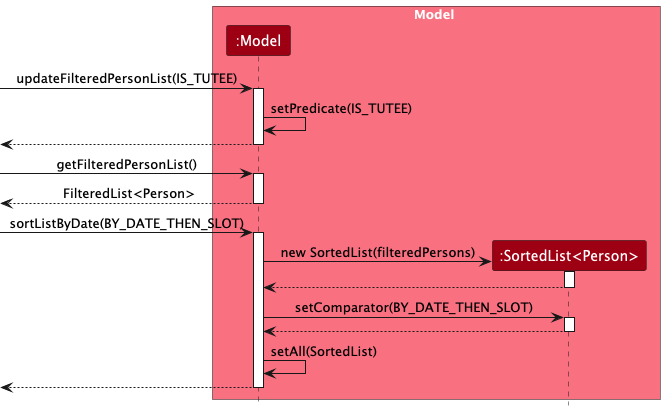
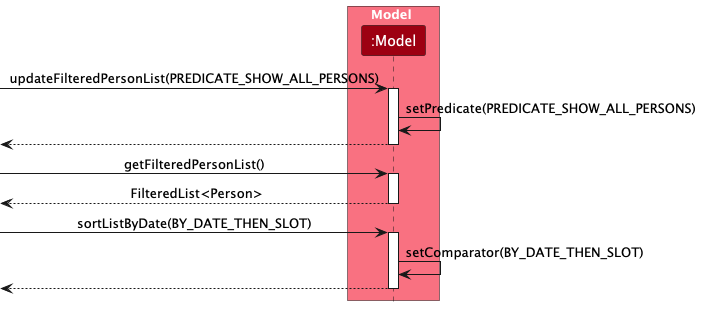
Edit DG

diff --git a/docs/DeveloperGuide.md b/docs/DeveloperGuide.md
@@ -127,11 +127,6 @@ The `Model` component,
 * stores a `UserPref` object that represents the user’s preferences. This is exposed to the outside as a `ReadOnlyUserPref` objects.
 * does not depend on any of the other three components (as the `Model` represents data entities of the domain, they should make sense on their own without depending on other components)
 
-<div markdown="span" class="alert alert-info">:information_source: **Note:** An alternative (arguably, a more OOP) model is given below. It has a `Tag` list in the `AddressBook`, which `Person` references. This allows `AddressBook` to only require one `Tag` object per unique tag, instead of each `Person` needing their own `Tag` objects.<br>
-
-<img src="images/BetterModelClassDiagram.png" width="450" />
-
-</div>
 
 
 ### Storage component
@@ -141,8 +136,8 @@ The `Model` component,
 <img src="images/StorageClassDiagram.png" width="550" />
 
 The `Storage` component,
-* can save both address book data and user preference data in JSON format, and read them back into corresponding objects.
-* inherits from both `AddressBookStorage` and `UserPrefStorage`, which means it can be treated as either one (if only the functionality of only one is needed).
+* can save address book data, schedule data, and user preference data in JSON format, and read them back into corresponding objects.
+* inherits from `AddressBookStorage`, `ScheduleStorage` and `UserPrefStorage`, which means it can be treated as either one (if the functionality of only one is needed).
 * depends on some classes in the `Model` component (because the `Storage` component's job is to save/retrieve objects that belong to the `Model`)
 
 ### Common classes
@@ -166,8 +161,6 @@ Given below shows the sequence diagram of how the sortbydate command goes throug
 The calls to Model class shown above are shown in detail in the sequence diagram below. 
 
 ![SortSequenceDiagram](images/SortByDateSequenceDiagram-Model.png)
-
-### Schedule feature
 
 #### Proposed Implementation
 
@@ -276,32 +269,33 @@ _{more aspects and alternatives to be added}_
 * is reasonably comfortable using CLI apps
 
 **Value proposition**:
-* Managing different clients: Tutee/Tutee’s Parents
+* Managing Tutee contacts
 * Managing timing conflicts: Tuition classes / Study schedule
-* Managing location conflicts
-* Tracking of Tutee’s learning topic status
+  * Note that we do not support activities that span across midnight. 
+* Tracking of billing status 
+* Tracking of Tutee’s learning topic status (via Remarks)
 
 
 ### User stories
 
 Priorities: High (must have) - `* * *`, Medium (nice to have) - `* *`, Low (unlikely to have) - `*`
 
-| Priority | As a …                               | I want to …                                        | So that I can…                                              |
-|-----|---------------------------------------|-----------------------------------------------------|--------------------------------------------------------------|
-| `* * *` | new user                              | see information page                                | refer to instructions when I forget how to use the App       |
-| `* * *` | student                               | add my own schedule                                 | I can account for potential timetable conflicts with my own schedule|
-| `* * *` | student                               | delete my schedule                                  | I can free up the timeslot                           |
-| `* * *` | tuition teacher                       | add a tutee’s data                                  |  |
-| `* * *` | tuition teacher                       | delete a tutee's data                               |             |
-| `* * *` | tuition teacher                       | get the emails of all my current tutees             | I can email them their homework for the week        |
-| `* * *` | tuition teacher                       | get the billing contact of all my current tutees    | I can contact them about payment        |
-| `* * *` | tuition teacher                       | get the address of my tutee                         | I can proceed to the location for the lesson        |
-| `* * *` | tuition teacher                       | sort the list of tutees according to date of lesson | I can see more easily who I am teaching next        |
-| `* *` | tuition teacher                       | get the upcoming topic to be taught for my tutee    | I can prepare the materials necessary for the lesson        |
-| `* *` | tuition teacher                       | leave notes on what my tutee is weak in             | I know how to help them more        |
-| `* *` | tuition teacher and part-time student | have a daily overview of my activities for the day  | I know and can prepare for my day efficiently        |
-| `*` | tuition teacher | I can get suggested time slots for new tutees based on lesson date and duration  | I can slot in new tutees more easily        |
-| `*` | expert user                           | I can create shortcuts for tasks  | I can save time on frequently performed tasks        |
+| Priority | As a …                               | I want to …                                                                    | So that I can…                                             |
+|-----|---------------------------------------|---------------------------------------------------------------------------------|-------------------------------------------------------------|
+| `* * *` | new user                              | see information page                                                            | refer to instructions when I forget how to use the App      |
+| `* * *` | student                               | add my own schedule                                                             | I can account for potential timetable conflicts with my own schedule|
+| `* * *` | student                               | delete my schedule                                                              | I can free up the timeslot                          |
+| `* * *` | tuition teacher                       | add a tutee’s data                                                              |  |
+| `* * *` | tuition teacher                       | delete a tutee's data                                                           |             |
+| `* * *` | tuition teacher                       | get the emails of all my current tutees                                         | I can email them their homework for the week       |
+| `* * *` | tuition teacher                       | get the billing contact of all my current tutees                                | I can contact them about payment       |
+| `* * *` | tuition teacher                       | get the address of my tutee                                                     | I can proceed to the location for the lesson       |
+| `* * *` | tuition teacher                       | sort the list of tutees according to date of lesson                             | I can see more easily who I am teaching next       |
+| `* *` | tuition teacher                       | get the amount each tutee owes                                                  | I know how much I should be getting |
+| `* *` | tuition teacher                       | leave notes on what my tutee is weak in                                         | I know how to help them more        |
+| `* *` | tuition teacher and part-time student | have a daily overview of my activities for the day                              | I know and can prepare for my day efficiently       |
+| `*` | tuition teacher | I can get suggested time slots for new tutees based on lesson date and duration | I can slot in new tutees more easily       |
+| `*` | expert user                           | I can create shortcuts for tasks                                                | I can save time on frequently performed tasks       |
 
 
 ### Use cases
@@ -478,15 +472,51 @@ testers are expected to do more *exploratory* testing.
    1. Test case: `delete 0`<br>
       Expected: No person is deleted. Error details shown in the status message. Status bar remains the same.
 
-   1. Other incorrect delete commands to try: `delete`, `delete x`, `...` (where x is larger than the list size)<br>
+   1. Other incorrect delete commands to try: `delete x`, `...` (where x is larger than the list size)<br>
       Expected: Similar to previous.
 
-1. _{ more test cases … }_
+### Showing current schedule
+1. Showing current schedule
+   1. Test case: `schedule` <br> Expected: Tutee list will be gone and instead a schedule view will be shown. Success message shown on status message.
+   2.    Test case: `schedule hh` <br> Nothing done. Error details shown in the status message.
 
-### Saving data
+### Adding an Activity 
+1. Adds an activity with the parameters of information (about the activity), date, and time.
+   1. Test case: `addactivity i/CCA d/wednesday s/15:00-16:00` <br> Expected: Activity added to the schedule in chronological order. Details of the added activity will be shown in the status message. 
+   2. Test case: `addactivity d/tuesday s/12:00-13:00` <br> Expected: No activity added. Error details shown in the status message.
+   3. Other incorrect test cases: `addactivity i/CCA s/12:00-13:00`, `addactivity i/ Class d/tuesday s/9:00-13:00` <br> Expected: Similar to previous.
 
-1. Dealing with missing/corrupted data files
+### Deleting an Activity 
+1. Deletes an activity specified by the time and time of the activity. 
+   1. Prerequisites: Activity slot needs to be exact and reflect an activity slot in the current schedule.
+   2. Prerequisites: Activity deleted cannot be a tuition slot, that was added via `add command` in address book.
+   2. Test case: `deleteactivity d/thursday s/18:00-20:00` <br> Expected: Deletes an activity. Deleted activity details will be shown on status message.
 
-   1. _{explain how to simulate a missing/corrupted file, and the expected behavior}_
+### Editing unpaid hours 
+1. Editing the unpaid hours of a tutee while all tutees are being shown
+   1. Prerequisites: List all tutees using the `list` command. Multiple tutees in the list.
+   2. Test case: `edithours 1 h/7` <br> Expected: First contact in the list will now have 7 unpaid hours reflected.
+      Details of the edited contact shown in the status message.
+   3. Test case: `edithours 0 h/7` <br> Expected: No hours edited. Error details shown in the status message.
+   4. Test case: `edithours 1 h/-1` <br> Expected: No hours edited. Error details shown in the status message.
 
-1. _{ more test cases … }_
+
+### Indicating that a tutee has paid in full 
+1. Indicating that a tutee has paid his/her amount owed in full. 
+    1. Prerequisites: List all tutees using the `list` command. Multiple tutees in the list. 
+   2. Test case: `paidfull 3` <br> Expected: First contact in the list will now have 0 unpaid hours and $0.00 amount owed.
+      Details of the edited contact shown in the status message.
+   3. Other test cases: Refer to "Deleting a person" above
+ 
+
+### Getting the address of a tutee 
+1. Getting the address of a tutee using his/her name. 
+    1. Prerequisites: List all tutees using the `list` command. Multiple tutees in the list.
+   2. Test case: `getaddress David Li` <br> Expected: Retrieves the email of David Li, if such a person exists in the address book. Address will be shown in the status message, allowing users to copy it.
+   3. Test case: `getaddress Doe` <br> Expected: If there are 2 persons with the surname Doe in the address book, then no address will be returned. Error message shown in the status message.
+
+### Sorting by date
+1. Sorting tutees based on their tuition date first then slot timing. 
+   1. Test case: `sortbydate` <br> Expected: All tutees will be sorted and shown. Success message shown in status message. 
+   2. Test case: `sortbydate hh` <br> Nothing done. Error details shown in the status message.
+
